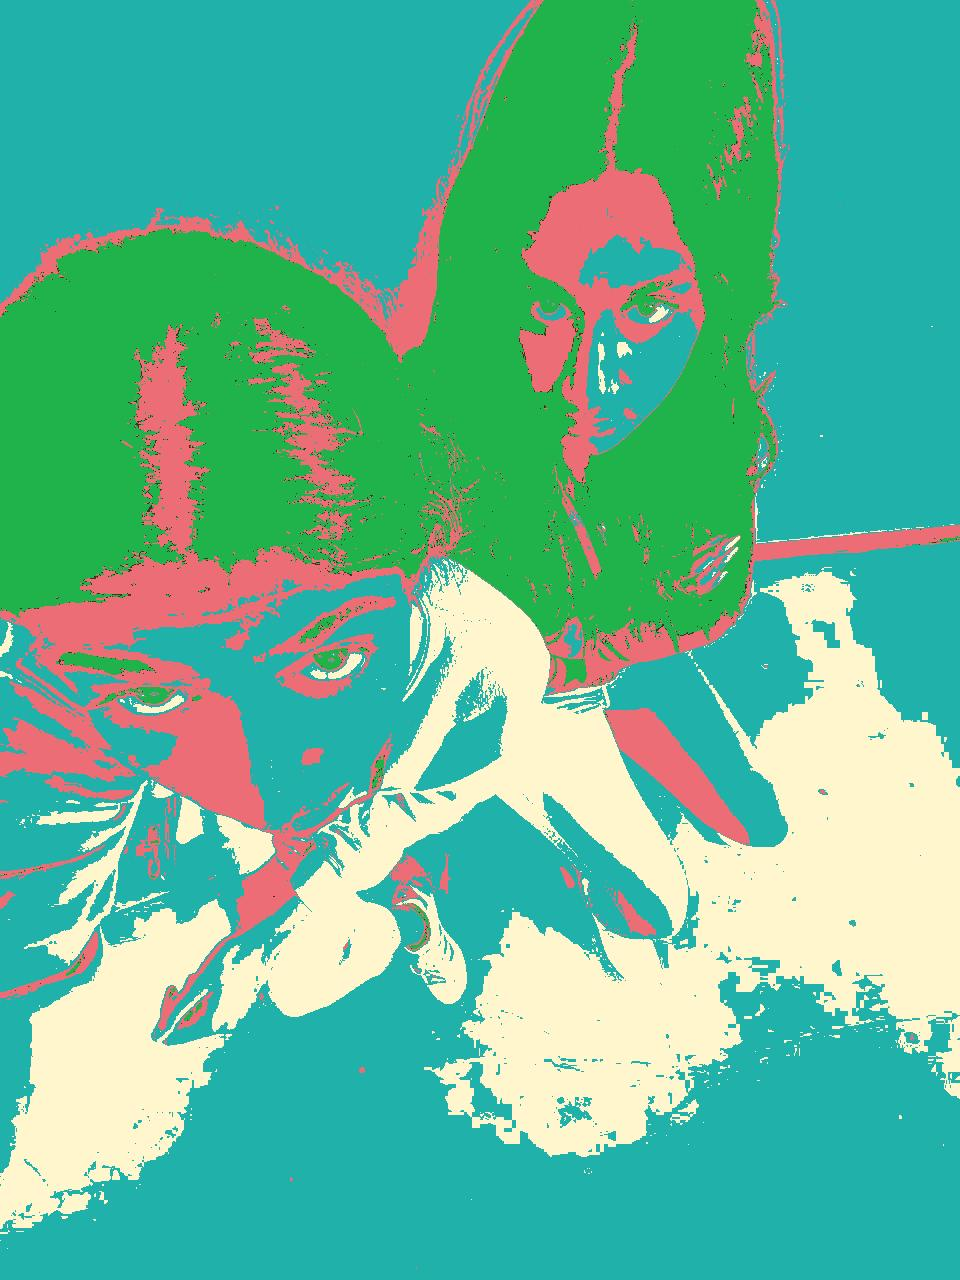
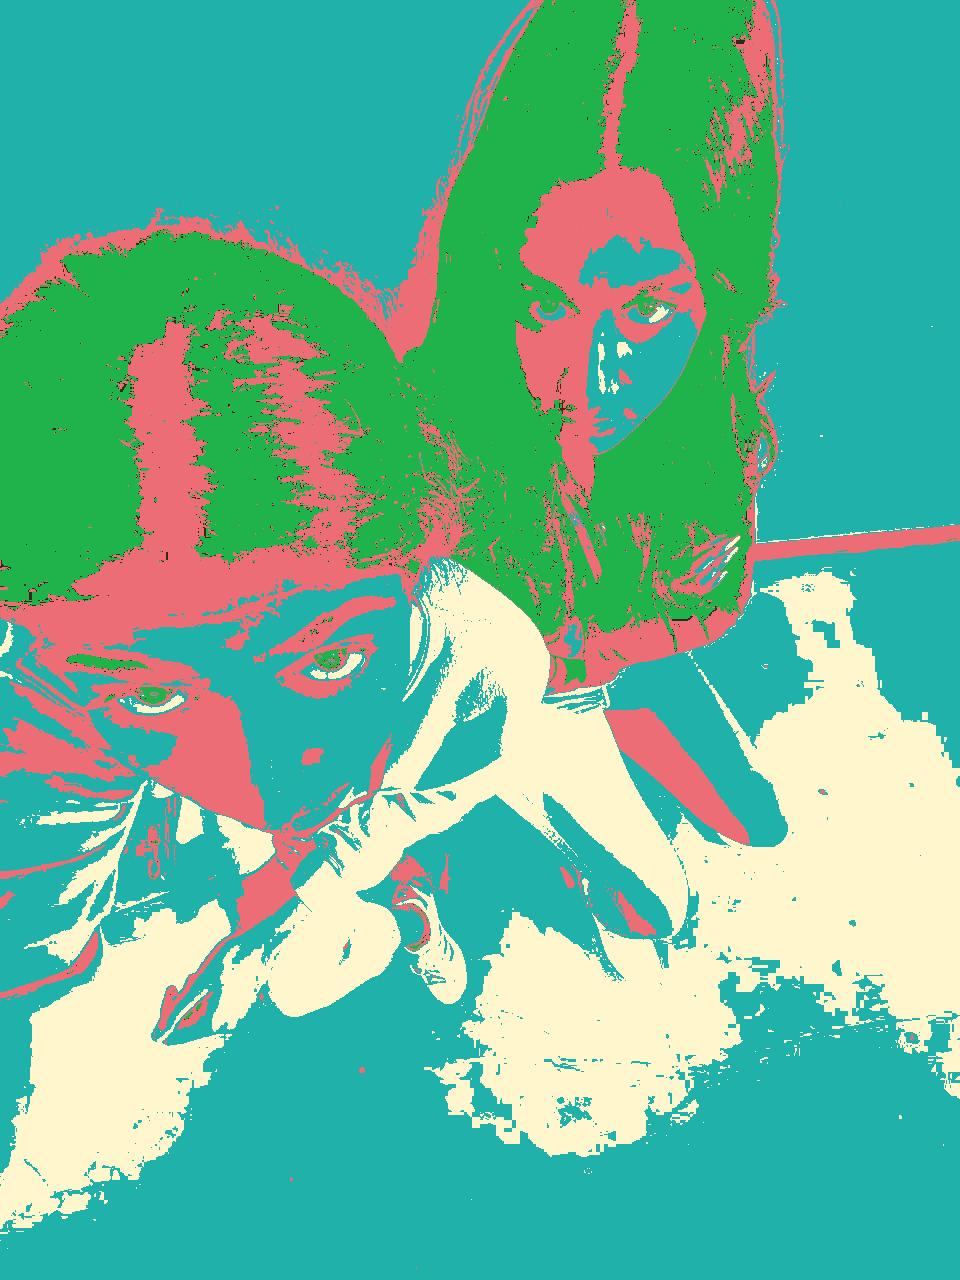
finishing touches

diff --git a/ColorLabs17/selfie.java b/ColorLabs17/selfie.java
@@ -13,7 +13,7 @@ public class selfie
         Picture selfie = new Picture("selfieimage/selfie.jpg");
         Picture selfie1 = new Picture("selfieimage/selfie.jpg");
         Picture selfie2 = new Picture("selfieimage/selfie.jpg");
-        /*
+        
         selfie.explore();
         // method 1 -----------------------------
         
@@ -40,7 +40,7 @@ public class selfie
             }
         }
         selfie.explore();
-        //selfie.write("images/selfie.jpg");
+        
         
         
         //method 2-------------------------------------------
@@ -64,7 +64,7 @@ public class selfie
             
             
         }
-            //loop
+          
             double interval = (big-s)/4;
         for(Pixel spot:pixels1){
             if(spot.getRed()<interval){
@@ -83,8 +83,8 @@ public class selfie
             
         
         selfie1.explore();
-        //selfie1.write("selfieimage/selfie.jpg");
-        */
+        
+        
         // method 3 -----------------------------------
         Pixel [] pixels2;
         pixels2 = selfie2.getPixels();
@@ -98,20 +98,20 @@ public class selfie
             double ave = (r+g+b)/3;
             
             if(ave<40)
-                spot.setColor(new Color(20, 32, 125)); //green
-            else if(ave>40&&ave<100)
+                spot.setColor(new Color(20, 32, 125)); //dark blue
+            else if(ave>40&&ave<60)
                 spot.setColor(new Color(237, 109, 118)); //pink
-            else if(ave>=100&&ave<150)
-                spot.setColor(new Color(32,178,170)); //blue
-            else if(ave>=150)
+            else if(ave>=60&&ave<100)
+                spot.setColor(new Color(236, 43, 43)); // red
+            else if(ave>=100&&ave<140)
+                spot.setColor(new Color(32,178,170)); //light blue
+            else if(ave>=140)
                 spot.setColor(new Color(255, 246, 205)); //white
             
         }
         selfie2.explore();
-        selfie2.write("selfieimage/SFtry4.jpg");
-        //selfie2.write("selfieimage/selfie.jpg");
-        //selfie2.write("selfieimage/selfie.jpg");
-        //selfie2.write("selfieimage/selfie.jpg");
+        selfie2.write("selfieimage/SFmyfinal.jpg");
+        
     }
 }
 
